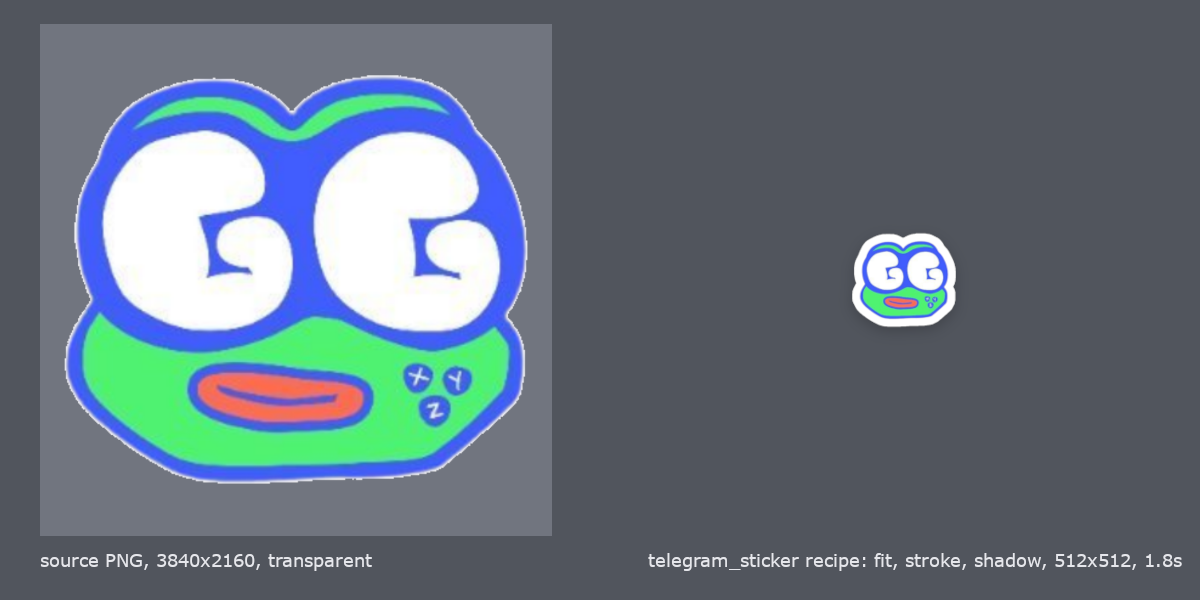
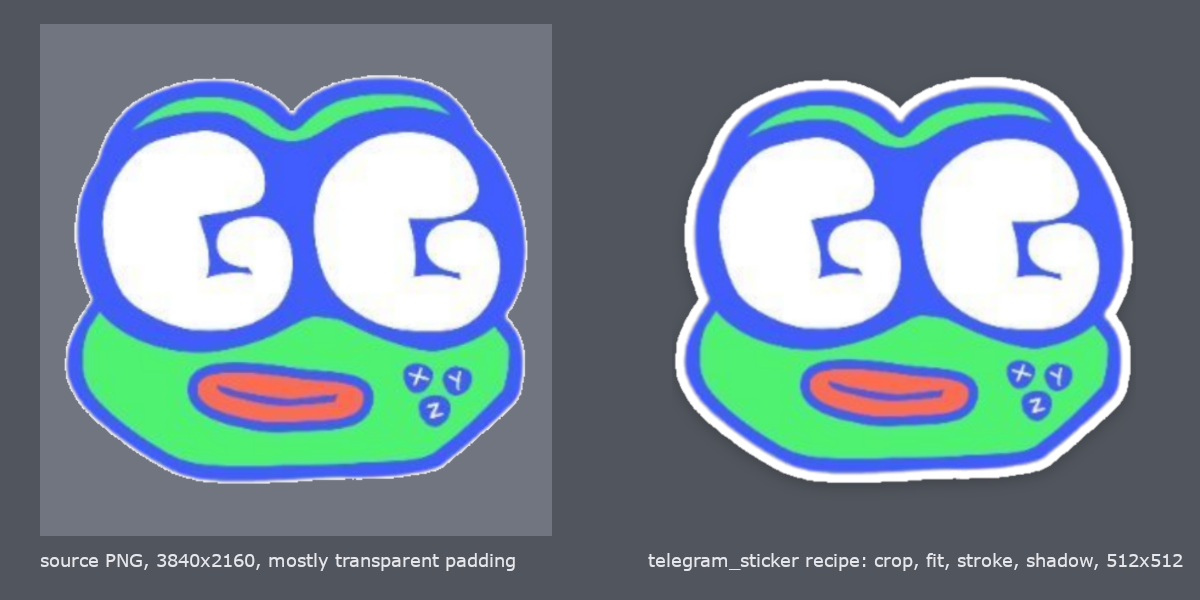
telegram_sticker: crop transparent padding before fitting
Padded PNGs produced tiny stickers because the recipe fitted the canvas,
not the artwork. crop_to_content defaults on; hero regenerated.

Changed region(s): [[0.555, 0.12, 0.9558, 0.81], [0.7092, 0.9, 0.9867, 0.96], [0.2158, 0.93, 0.4317, 0.96]]

diff --git a/src/gimp_agent_mcp/recipes/telegram_sticker.py b/src/gimp_agent_mcp/recipes/telegram_sticker.py
@@ -14,6 +14,7 @@ PARAMS = {
     "shadow_blur": {"type": "number", "default": 8, "description": "Shadow blur radius; 0 disables the shadow"},
     "shadow_opacity": {"type": "number", "default": 0.4, "description": "Shadow opacity 0..1"},
     "shadow_color": {"type": "string", "default": "black", "description": "Shadow colour"},
+    "crop_to_content": {"type": "boolean", "default": True, "description": "Trim transparent padding before fitting, so the artwork fills the sticker"},
     "keep_open": {"type": "boolean", "default": False, "description": "Leave the working image open in GIMP"},
 }
 
@@ -40,6 +41,12 @@ try:
         layer = layers[0]
     if not layer.has_alpha():
         layer.add_alpha()
+
+    if params["crop_to_content"]:
+        bb = bridge.op_alpha_bbox({"layer_id": layer.get_id()})
+        if not bb.get("empty") and (bb["width"], bb["height"]) != (image.get_width(), image.get_height()):
+            image.crop(bb["width"], bb["height"], bb["x"], bb["y"])
+            layer = image.get_layers()[0]
 
     w, h = image.get_width(), image.get_height()
     scale = fit / float(max(w, h))
